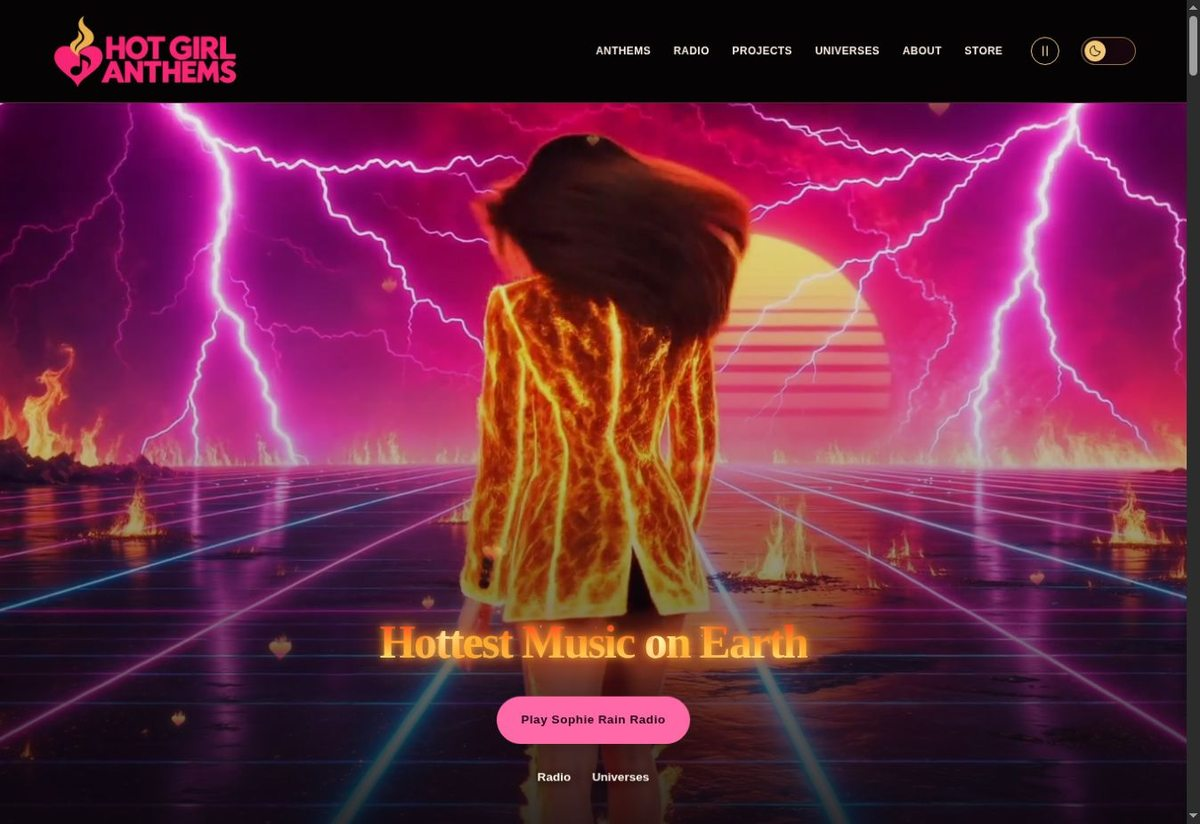
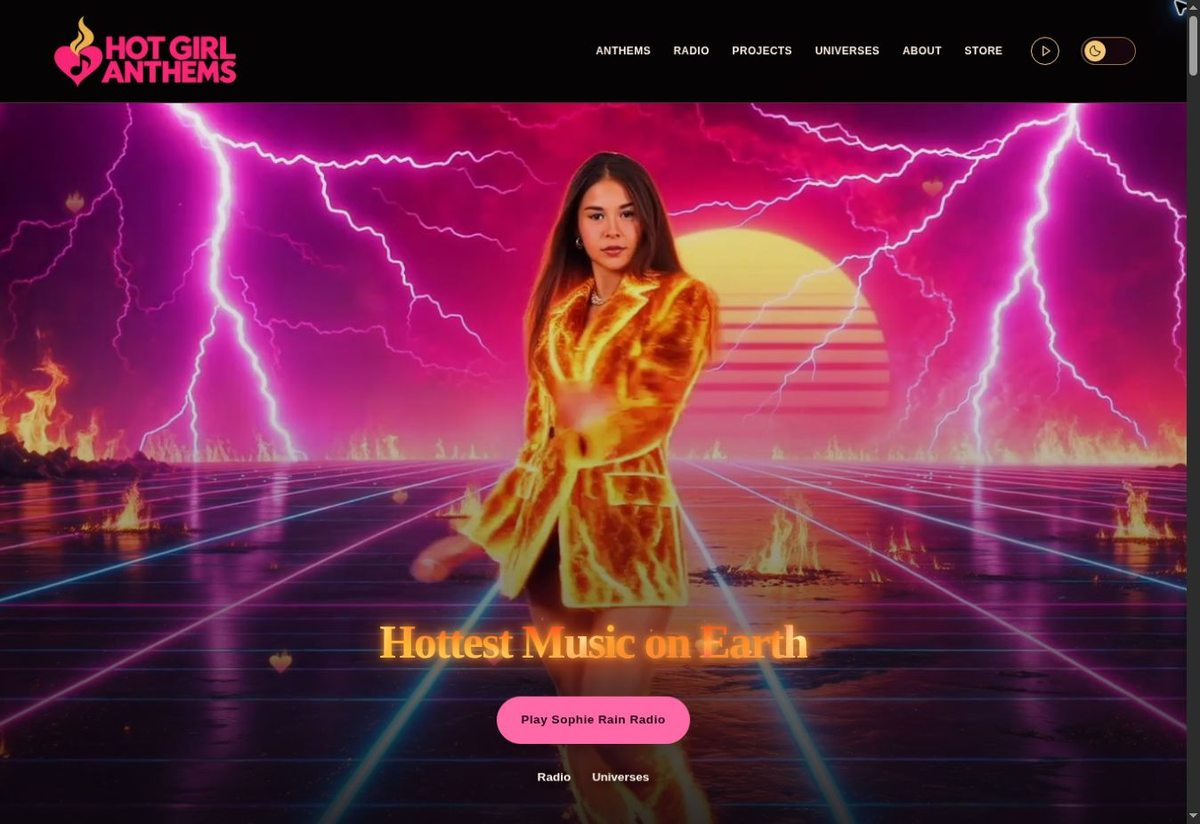
Refine HGA hero screenshot and space README em dashes

diff --git a/README.md b/README.md
@@ -4,7 +4,7 @@
 
 > Human is the star, AI is the amplifier, nature is the stage.
 
-I’m an AI music producer and the founder of **AI Anthems**. I create original songs, cinematic music videos, and software experiences through AI-assisted development—bringing music, visual worlds, and human–AI creativity together.
+I’m an AI music producer and the founder of **AI Anthems**. I create original songs, cinematic music videos, and software experiences through AI-assisted development — bringing music, visual worlds, and human–AI creativity together.
 
 ## AI Anthems · The flagship
 
@@ -18,15 +18,15 @@ I’m an AI music producer and the founder of **AI Anthems**. I create original 
 
 ### SI Anthems
 
-[The soundtrack of the Super Intelligence Age](https://sianthems.com)—songs and cinematic worlds exploring technology, ambition, and imagined futures.
+[The soundtrack of the Super Intelligence Age](https://sianthems.com) — songs and cinematic worlds exploring technology, ambition, and imagined futures.
 
 [![SI Anthems homepage with its star logo, cinematic fire-couture artwork, America Enters a New Age headline, and radio controls](assets/si-anthems.jpg)](https://sianthems.com)
 
 ### Hot Girl Anthems
 
-[Glamour, fantasy fashion, and cinematic music](https://hotgirlanthems.com)—extravagant visual storytelling, character-led anthems, and themed listening experiences.
+[Glamour, fantasy fashion, and cinematic music](https://hotgirlanthems.com) — extravagant visual storytelling, character-led anthems, and themed listening experiences.
 
-[![Hot Girl Anthems homepage with its pink identity, fire-couture fashion scene, Hottest Music on Earth headline, and radio controls](assets/hot-girl-anthems.jpg)](https://hotgirlanthems.com)
+[![Hot Girl Anthems homepage with its pink identity, a woman facing the viewer in fire couture, Hottest Music on Earth headline, and radio controls](assets/hot-girl-anthems.jpg)](https://hotgirlanthems.com)
 
 ## What I’m building
 
